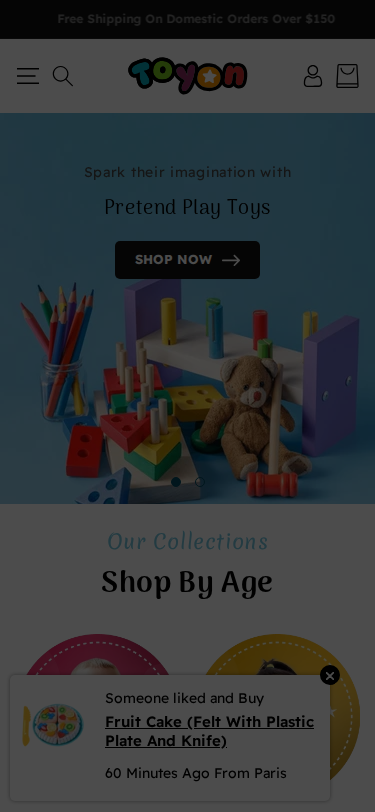
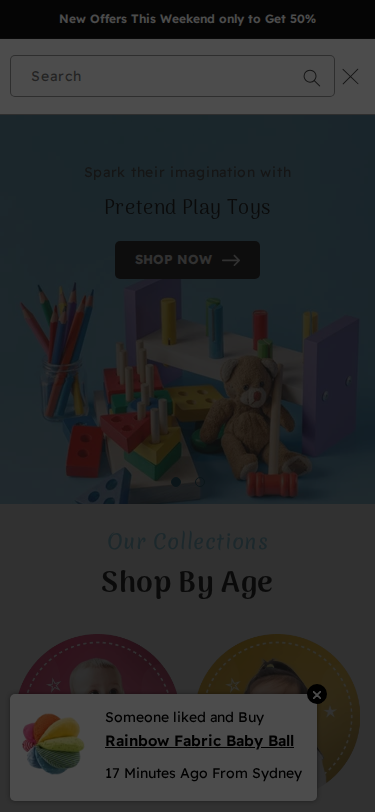
Toyon interact retry: forceOpen reveals search, cart empty, Shop, FAQ
Second pass used the Speedo Dawn forceOpen pattern. Frames now show the
Shop dropdown, empty cart drawer, predictive search (teddy → Baby Teddy),
and all six home FAQ answers. Menu drawer and PDP Green still do not
change on the PNG — missingStates. No schema edits.

diff --git a/todo/toyon.md b/todo/toyon.md
@@ -13,7 +13,7 @@
 
 **Unlock:** Vendor ürün sayfası demo password `1`. Title `TOYON TOYS (password: 1)`. Public storefront unlock; hesap değil. Başka host yok (`toyon-toys-2` Critters — bu walk değil).
 
-**Durum:** Mod A 41 obs · 121 static + 39 interact = 160 PNG · 0 yeni şema  
+**Durum:** Mod A 41 obs · 121 static + 43 interact = 164 PNG · 0 yeni şema  
 **PR:** https://github.com/mattiasadem/qante/pull/369 · draft · **main'e merge yok**
 
 ---
@@ -26,7 +26,7 @@
 | Capture | resmi `capture-observation.mjs` + `capture-interaction.mjs` + `unlock-storefront.mjs` |
 | Şema | **0 yeni** — mevcut tiplere observation + delta |
 | Observation | **41** |
-| Evidence PNG | **160** (121 static + 39 interact) |
+| Evidence PNG | **164** (121 static + 43 interact) |
 | Parallel | `observations/toyon/`, `evidence/toyon/`, `todo/toyon.md`, `candidates/toyon-leftovers.md`, `scripts/unlock-storefront.mjs` |
 
 **Kapsam satırı:**  
@@ -39,10 +39,10 @@
 | Şablon | Durum | 3vp |
 |---|---|---|
 | Home roster (announcement→footer) | [x] obs | [x] static |
-| Header Shop / Shop By Age 1440 | [x] interact | [x] hover; dropdown panel missingStates |
-| Predictive search `teddy` | [x] interact | [x] input missingStates |
+| Header Shop / Shop By Age 1440 | [x] interact | [x] Shop dropdown 1440 (forceOpen) |
+| Predictive search `teddy` | [x] interact | [x] boş modal + teddy PRODUCTS 3vp |
 | Mobile menu 375 + 768 | [x] interact | [x] probe açık; PNG homepage missingStates |
-| Cart drawer empty + filled + qty | [x] interact | [x] filled+qty; empty PNG homepage |
+| Cart drawer empty + filled + qty | [x] interact | [x] empty + filled + qty 3vp |
 | PDP Baby Teddy Color Brown→Green | [x] interact | [x] probe Green; PNG kahverengi missingStates |
 | PLP `/collections/best-sellers` | [x] obs | [x] static |
 | Collections `/collections` | [x] obs | [x] static |
@@ -92,6 +92,6 @@
 
 - [x] Official 3vp static (121 PNG; menu 375/1440 zero-size)
 - [x] Interact header / search / menu / cart / PDP / FAQ (bakıldı)
-- [x] Cart drawer + cart page filled/qty 3vp — pikseller değişti
-- [x] Header hover / search fill / menu / empty drawer / PDP Green / FAQ changed → `missingStates`
+- [x] Cart drawer empty+filled+qty · cart page filled+qty · search teddy · Shop dropdown · FAQ open
+- [x] Menu drawer + PDP Green → `missingStates` (iki deneme)
 - [x] `node scripts/validate-schemas.mjs` — 0 error

diff --git a/todo/README.md b/todo/README.md
@@ -75,7 +75,7 @@
 | Saffron (Speedo · Midnight Perfume) | [`saffron.md`](./saffron.md) | ✅ first inventory — password `1` · 39 obs · 167 PNG · 0 yeni şema |
 | Shrilahome (Speedo) | [`shrilahome.md`](./shrilahome.md) | ✅ Mod A + interact — 38 obs · 166 PNG · 0 yeni şema · password `1` · menu/search overlay missing |
 | Wide Fashion (Speedo) | [`wide-fashion.md`](./wide-fashion.md) | 🟡 first inventory + interact — Fashion-store-clean-5 1.2.0 · 42 obs · 169 PNG · 0 yeni şema · password `1` |
-| Toyon (Speedo) | [`toyon.md`](./toyon.md) | 🟡 first inventory + interact — toyon-toys · password `1` · 41 obs · 160 PNG · 0 yeni şema · cart filled/qty; mega/search/menu/empty-drawer/PDP Green/FAQ missingStates |
+| Toyon (Speedo) | [`toyon.md`](./toyon.md) | 🟡 first inventory + interact — toyon-toys · password `1` · 41 obs · 164 PNG · 0 yeni şema · cart/search/Shop dropdown/FAQ; menu+PDP Green missingStates |
 | Legal / policy (Kreis recipe) | [`policy-legal.md`](./policy-legal.md) | ✅ page-recipes/policy · 3-col sticky TOC \| content \| sibling nav |
 
 **Interact (discover sonrası derinlik):** [`interact.md`](./interact.md) — kapalı kare yalanı; Stretch + Cocoon/Balance shop-the-look kapandı.
